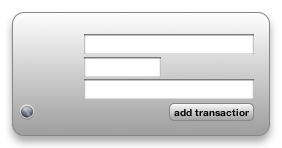
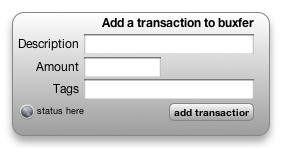
captures enter keypress on the tags field and submits the value

diff --git a/project.wdgt/BuxferSubmit.html b/project.wdgt/BuxferSubmit.html
@@ -26,11 +26,11 @@
         <input type="text" name="" value="" class="apple-textfield apple-no-children" apple-part="com.apple.Dashcode.part.textfield" id="descriptionField">
         <input type="text" name="" value="" class="apple-textfield apple-no-children" apple-part="com.apple.Dashcode.part.textfield" id="amountField">
         <input type="text" name="" value="" class="apple-textfield apple-no-children" apple-part="com.apple.Dashcode.part.textfield" id="tagsField">
-        <div apple-part="com.apple.Dashcode.part.text" class="apple-text apple-no-children" apple-default-image-visibility="hidden" apple-text-overflow="ellipsis" id="descriptionText"></div>
-        <div apple-part="com.apple.Dashcode.part.text" class="apple-text apple-no-children" apple-default-image-visibility="hidden" apple-text-overflow="ellipsis" id="amountText"></div>
-        <div apple-part="com.apple.Dashcode.part.text" class="apple-text apple-no-children" apple-default-image-visibility="hidden" apple-text-overflow="ellipsis" id="tagsText"></div>
-        <div apple-part="com.apple.Dashcode.part.text" class="apple-text apple-no-children" apple-default-image-visibility="hidden" apple-text-overflow="ellipsis" id="statusText"></div>
-        <div apple-part="com.apple.Dashcode.part.text" class="apple-text apple-no-children" apple-default-image-visibility="hidden" apple-text-overflow="ellipsis" id="titleText"></div>
+        <div apple-part="com.apple.Dashcode.part.text" class="apple-text apple-no-children" apple-text-overflow="ellipsis" id="descriptionText"></div>
+        <div apple-part="com.apple.Dashcode.part.text" class="apple-text apple-no-children" apple-text-overflow="ellipsis" id="amountText"></div>
+        <div apple-part="com.apple.Dashcode.part.text" class="apple-text apple-no-children" apple-text-overflow="ellipsis" id="tagsText"></div>
+        <div apple-part="com.apple.Dashcode.part.text" class="apple-text apple-no-children" apple-text-overflow="ellipsis" id="statusText"></div>
+        <div apple-part="com.apple.Dashcode.part.text" class="apple-text apple-no-children" apple-text-overflow="ellipsis" id="titleText"></div>
         <div apple-part="com.apple.Dashcode.part.indicator" class="apple-no-children" id="latestStatusIndicator"></div>
         <div apple-part="com.apple.Dashcode.part.roundedtextbutton" class="apple-no-children" apple-style="image-theme: 1; image-shape: 3; image-button-type: 0; image-opacity: 1.00; image-top-color: 1,1,1,1; image-bottom-color: 0.615400016,0.615400016,0.615400016,1; image-radius: 5,5,5,5; image-border: 1; image-border-color: 0.529399991,0.529399991,0.529399991,1; image-border-width: 1; shine-strength: 0.90; shine-alpha-level: 0.67; shine-height: 0.50; glass-arc-height: 0.06; shadow-include-shadow: 0;" id="addTransactionButton"></div>
     </div>

diff --git a/project.wdgt/BuxferSubmit.js b/project.wdgt/BuxferSubmit.js
@@ -311,7 +311,6 @@ if (window.widget) {
     widget.onsync = sync;
 }
 
-
 function addTransaction_Click(event)
 {
     var description = descriptionField.value;
@@ -328,5 +327,14 @@ function passwordField_Blur(event)
     // save the preferences so that the login function can get the correct username and password
     savePreferences();
     refreshAccountsList(selectCorrectAccount);
+}
+
+function tagsField_KeyUp(event)
+{
+    if(event.keyIdentifier == "Enter"){
+        addTransaction_Click();
+        return false;
+    }
+    return true;
 }
 
